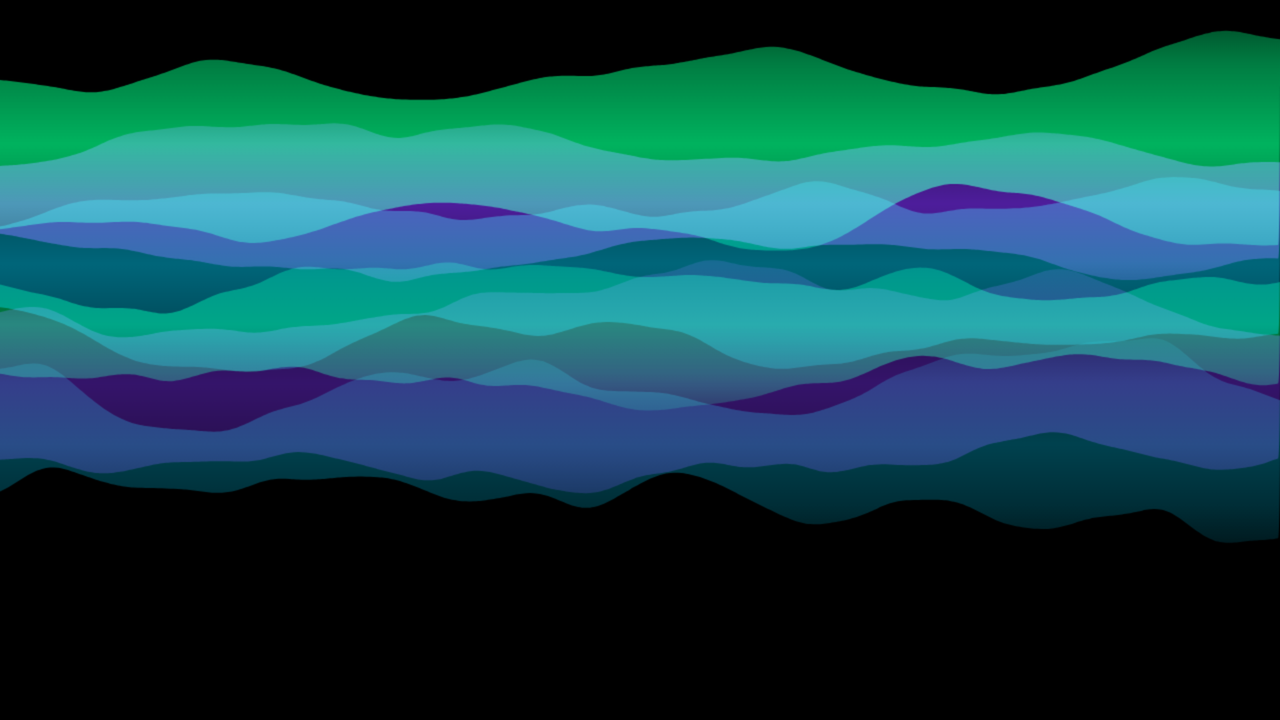
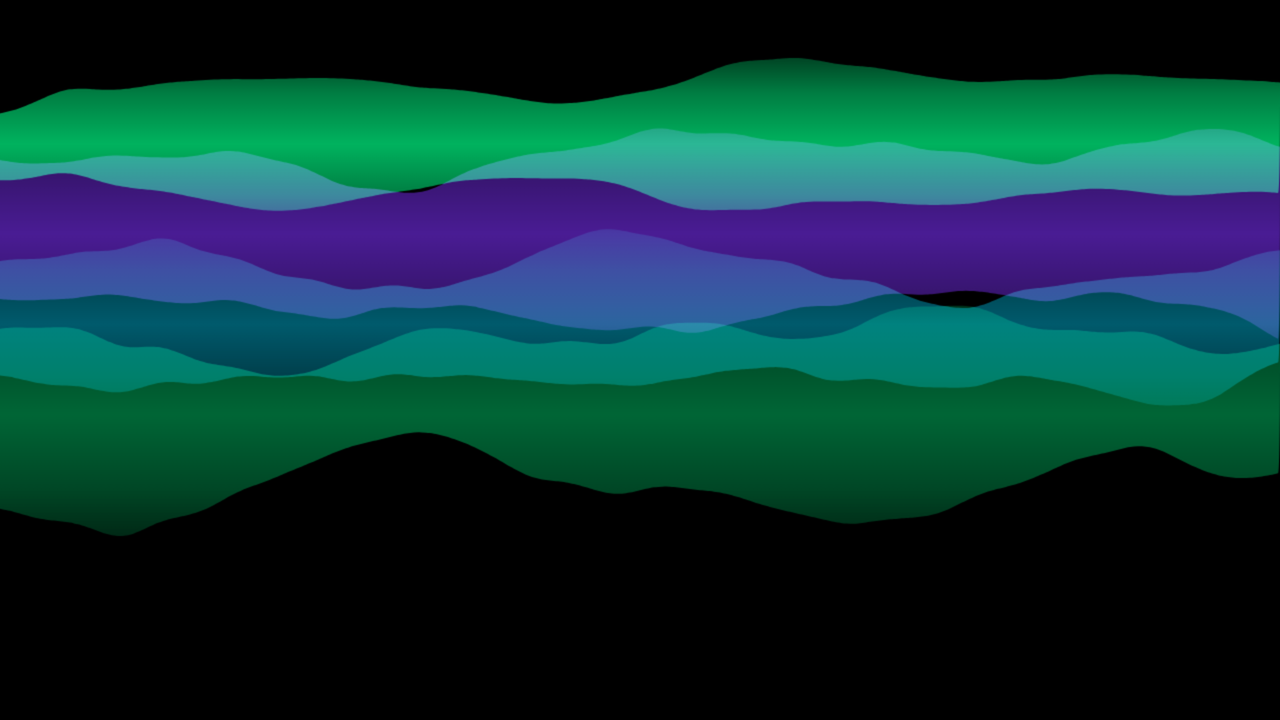
fix(noise): improve noise field visual quality and regenerate screenshots
- Made warpStrength configurable in noise-field.js (default 0.4)
- Reduced default noise scale from 0.003 to 0.002 for larger features
- Reduced default octaves from 4 to 3 for smoother output
- Added richer default color palette with more gradient stops
- Updated capture config: warpStrength=0.3, noiseScale=0.0015 for optimal screenshots
- Regenerated all 6 screenshots with improved rendering
- Noise screenshot improved from 3/10 (grainy static) to 7/10 (smooth flowing gradients)

diff --git a/src/BlazorEffects.Noise/wwwroot/noise-field.js b/src/BlazorEffects.Noise/wwwroot/noise-field.js
@@ -381,7 +381,7 @@ function drawFrame(state) {
 
             // Domain warping: use noise to distort the noise coordinates
             // This creates flowing, organic, lava-lamp-like motion
-            const warpStrength = 0.6;
+            const warpStrength = config.warpStrength;
             const warpFreq = noiseScale * 1.5;
             const warpX = fbm(permData, dx * warpFreq, dy * warpFreq, z * 0.7, Math.max(1, octaves - 1), persistence, lacunarity);
             const warpY = fbm(permData, dx * warpFreq + 5.2, dy * warpFreq + 1.3, z * 0.7, Math.max(1, octaves - 1), persistence, lacunarity);
@@ -423,7 +423,8 @@ function drawFrame(state) {
 
 function normalizeConfig(raw) {
     // Richer default palette with more stops for smoother gradient transitions
-    const defaultStops = ["#0a0a2e", "#1e1b4b", "#6366f1", "#8b5cf6", "#c084fc", "#ec4899", "#f43f5e", "#1e1b4b", "#0a0a2e"];
+    // Deep ocean to aurora-inspired colors for stunning visual impact
+    const defaultStops = ["#0a0a2e", "#1a1a5e", "#4338ca", "#6366f1", "#818cf8", "#a78bfa", "#c084fc", "#e879f9", "#f0abfc", "#c084fc", "#6366f1", "#312e81", "#0a0a2e"];
 
     let colorStops = defaultStops;
     if (raw?.colorStops && Array.isArray(raw.colorStops) && raw.colorStops.length >= 2) {
@@ -432,11 +433,12 @@ function normalizeConfig(raw) {
 
     return {
         colorStops,
-        noiseScale: Math.max(0.0001, Number(raw?.noiseScale) || 0.003),
-        speed: Math.max(0, Number(raw?.speed) || 0.005),
-        octaves: Math.max(1, Math.min(8, Number(raw?.octaves) || 4)),
+        noiseScale: Math.max(0.0001, Number(raw?.noiseScale) || 0.002),
+        speed: Math.max(0, Number(raw?.speed) || 0.004),
+        octaves: Math.max(1, Math.min(8, Number(raw?.octaves) || 3)),
         persistence: Math.max(0, Math.min(1, Number(raw?.persistence) || 0.5)),
         lacunarity: Math.max(1, Number(raw?.lacunarity) || 2.0),
+        warpStrength: Math.max(0, Math.min(5, Number(raw?.warpStrength) || 0.4)),
         brightness: Math.max(0, Math.min(3, Number(raw?.brightness) || 1.0)),
         opacity: Math.max(0, Math.min(1, Number(raw?.opacity) || 0.85)),
         targetFps: Math.max(1, Math.min(120, Number(raw?.targetFps) || 60))

diff --git a/src/AppHost/wwwroot/screenshot-capture.html b/src/AppHost/wwwroot/screenshot-capture.html
@@ -50,13 +50,14 @@
                 targetFps: 60,
             },
             noise: {
-                colorStops: ['#0a0a2e', '#1e1b4b', '#6366f1', '#8b5cf6', '#c084fc', '#ec4899', '#f43f5e', '#1e1b4b', '#0a0a2e'],
-                noiseScale: 0.003,
-                speed: 0.005,
-                octaves: 4,
+                colorStops: ['#0a0a2e', '#1a1a5e', '#4338ca', '#6366f1', '#818cf8', '#a78bfa', '#c084fc', '#e879f9', '#f0abfc', '#c084fc', '#6366f1', '#312e81', '#0a0a2e'],
+                noiseScale: 0.0015,
+                speed: 0.003,
+                octaves: 3,
                 persistence: 0.5,
                 lacunarity: 2.0,
-                brightness: 1.0,
+                warpStrength: 0.3,
+                brightness: 1.2,
                 opacity: 0.85,
                 targetFps: 60,
             },
